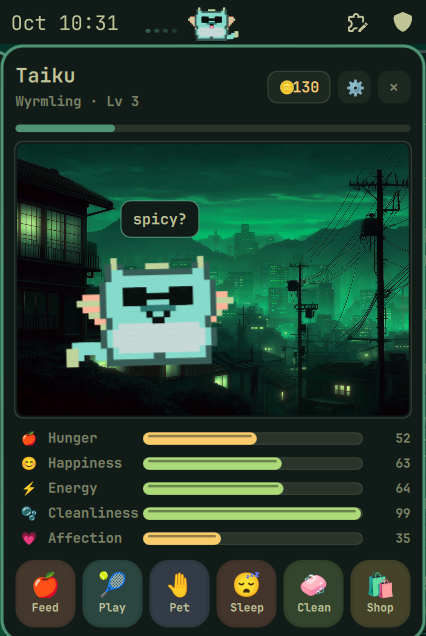
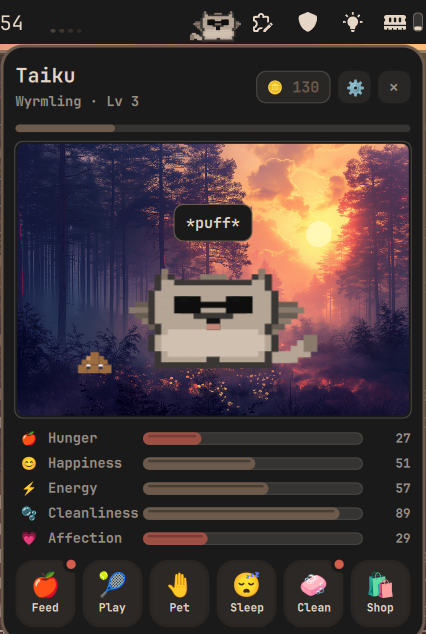
Update 0.4.1

diff --git a/Sprites.js b/Sprites.js
@@ -203,6 +203,7 @@ var EYE = "#2b2433"
 var CUR = null
 function E() { return (CUR && CUR.e) || EYE }
 function HP() { return (CUR && CUR.hat) || HAT_PAL }
+function themed(k, fallback) { return (CUR && CUR[k]) || fallback }
 function GOLD() { return (CUR && CUR.gold) || "#ffd966" }
 
 // ---------------------------------------------------------------- runs
@@ -280,7 +281,7 @@ function drawMouth(ctx, S, kind, mx, my, wide) {
       rect(ctx, S, mx + 2 + half - 1, my, 1, 1, c); break
     case "open":
       rect(ctx, S, mx - half + 1, my, 2 + (half - 1) * 2, 2, c)
-      rect(ctx, S, mx, my + 1, 2, 1, "#ff8fa8"); break
+      rect(ctx, S, mx, my + 1, 2, 1, themed("p", "#ff8fa8")); break
     case "chew":
       rect(ctx, S, mx, my, 2, 1, c); break
     case "sad":
@@ -292,7 +293,7 @@ function drawMouth(ctx, S, kind, mx, my, wide) {
     case "flat":
       rect(ctx, S, mx - half + 1, my, 2 + (half - 1) * 2, 1, c); break
     case "tongue":
-      rect(ctx, S, mx - 1, my, 4, 1, c); rect(ctx, S, mx + 1, my + 1, 2, 1, "#ff8fa8"); break
+      rect(ctx, S, mx - 1, my, 4, 1, c); rect(ctx, S, mx + 1, my + 1, 2, 1, themed("p", "#ff8fa8")); break
     case "zzz": case "none": break
   }
 }
@@ -302,13 +303,16 @@ function drawNose(ctx, S, face) {
   if (!n) return
   var w = n.w || 2
   var x = 10 - w / 2
-  rect(ctx, S, x, n.y, w, 1, n.c)
-  if (n.dots) { rect(ctx, S, x - 1, n.y, 1, 1, n.c); rect(ctx, S, x + w, n.y, 1, 1, n.c) }
+  // Pink noses take the palette's pink; the dragon's dots its outline colour.
+  var c = n.c === "#ff8fa8" ? themed("p", n.c) : n.dots ? themed("o", n.c) : n.c
+  rect(ctx, S, x, n.y, w, 1, c)
+  if (n.dots) { rect(ctx, S, x - 1, n.y, 1, 1, c); rect(ctx, S, x + w, n.y, 1, 1, c) }
 }
 
 function drawBeak(ctx, S, open) {
-  rect(ctx, S, 8, 8, 4, 1, "#ffb347"); rect(ctx, S, 9, 9, 2, 1, "#ff9a2e")
-  if (open) rect(ctx, S, 9, 10, 2, 1, "#ff9a2e")
+  var bk = themed("a", "#ffb347"), bd = themed("aw", "#ff9a2e")
+  rect(ctx, S, 8, 8, 4, 1, bk); rect(ctx, S, 9, 9, 2, 1, bd)
+  if (open) rect(ctx, S, 9, 10, 2, 1, bd)
 }
 
 function drawCheeks(ctx, S, face, amount) {
@@ -345,7 +349,7 @@ function drawTail(ctx, S, type, stage, phase, amp) {
         seg(ctx, S, 19 + i * 0.5 + Math.sin(phase) * amp * (i / 4) * 1.6, 14 - i * 1.1, 2, 2, P.d)
       break
     }
-    case "bunny": rect(ctx, S, 18.5, 14.5, 3, 3, "#ffffff"); rect(ctx, S, 18.5, 16, 3, 1, "#ece0e6"); break
+    case "bunny": rect(ctx, S, 18.5, 14.5, 3, 3, P.w); rect(ctx, S, 18.5, 16, 3, 1, P.l); break
     case "panda": rect(ctx, S, 19, 15, 2, 2, P.k); break
     case "fox": {
       var tails = stage >= 3 ? 3 : 1
@@ -356,7 +360,7 @@ function drawTail(ctx, S, type, stage, phase, amp) {
           var w = 3 + (i > 1 && i < 6 ? 1 : 0)
           var x = 18 + i * 0.9 + spread * i * 0.55 + Math.sin(phase + k * 0.9 - i * 0.45) * amp * f
           var y = 14 - i * 0.9 - Math.abs(spread) * i * 0.2
-          seg(ctx, S, x, y, w, 3, i >= 6 ? "#fff4e6" : P.b)
+          seg(ctx, S, x, y, w, 3, i >= 6 ? (P.w || "#fff4e6") : P.b)
           if (i === 0) seg(ctx, S, x, y + 3, w, 1, P.o)
         }
       }
@@ -383,7 +387,7 @@ function drawWings(ctx, S, type, stage, flap) {
       var w = Math.max(1, size - Math.abs(r - 1) + 1)
       var lift = flap * (size - r * 0.4) * 0.9
       var x = dir < 0 ? 1.5 - w : 18.5
-      seg(ctx, S, x - (dir < 0 ? lift * 0.3 : -lift * 0.3), 6 + r - lift * 0.6, w, 1, r % 2 ? P.a : "#ffb59a")
+      seg(ctx, S, x - (dir < 0 ? lift * 0.3 : -lift * 0.3), 6 + r - lift * 0.6, w, 1, r % 2 ? P.a : (P.aw || "#ffb59a"))
     }
   }
 }
@@ -406,10 +410,10 @@ function drawFlippers(ctx, S, type, flap) {
 function drawAdultMark(ctx, S, type, t) {
   switch (type) {
     case "cat": rect(ctx, S, 9, 5, 2, 1, GOLD()); break
-    case "dog": rect(ctx, S, 4, 14, 12, 2, "#ff6b6b"); rect(ctx, S, 3, 14, 1, 2, "#c94b4b"); rect(ctx, S, 16, 14, 1, 2, "#c94b4b"); break
+    case "dog": rect(ctx, S, 4, 14, 12, 2, themed("t", "#ff6b6b")); rect(ctx, S, 3, 14, 1, 2, themed("o", "#c94b4b")); rect(ctx, S, 16, 14, 1, 2, themed("o", "#c94b4b")); break
     case "bunny": rect(ctx, S, 9, 7, 2, 1, GOLD()); rect(ctx, S, 8, 8, 1, 1, GOLD()); break
     case "frog": rect(ctx, S, 7, 10, 6, 1, GOLD()); break
-    case "panda": rect(ctx, S, 15, 4, 1, 3, "#7fc97f"); rect(ctx, S, 16, 3, 2, 1, "#7fc97f"); break
+    case "panda": rect(ctx, S, 15, 4, 1, 3, themed("a", "#7fc97f")); rect(ctx, S, 16, 3, 2, 1, themed("a", "#7fc97f")); break
     case "fox": rect(ctx, S, 9, 6, 2, 1, GOLD()); break
     case "dragon": rect(ctx, S, 9, 5, 2, 1, GOLD()); break
     case "penguin": rect(ctx, S, 4, 8, 2, 2, GOLD()); rect(ctx, S, 14, 8, 2, 2, GOLD()); break

diff --git a/Palette.js b/Palette.js
@@ -1,0 +1,92 @@
+// Pet colours derived from a theme. Pure, so the shell (Theme.qml) and the
+// gallery script (tools/gallery.mjs) paint exactly the same pets.
+//
+// The look is calm: every pet is a theme hue pulled toward the background, with
+// one accent colour for details, so it sits in the UI instead of shouting over it.
+//
+// env: { bg, text, accent, urgent, hues: { name: "#rrggbb" } }, all "#rrggbb".
+
+function palHex(c) {
+  var s = "#"
+  for (var i = 0; i < 3; i++) {
+    var v = Math.max(0, Math.min(255, Math.round(c[i])))
+    s += (v < 16 ? "0" : "") + v.toString(16)
+  }
+  return s
+}
+function palRgb(h) {
+  return [parseInt(h.substr(1, 2), 16), parseInt(h.substr(3, 2), 16), parseInt(h.substr(5, 2), 16)]
+}
+function palMix(a, b, k) {
+  var x = palRgb(a), y = palRgb(b)
+  return palHex([x[0] * (1 - k) + y[0] * k, x[1] * (1 - k) + y[1] * k, x[2] * (1 - k) + y[2] * k])
+}
+
+var PAL_HUE = {
+  cat: "orange", dog: "brown", bunny: "foreground", frog: "green",
+  panda: "foreground", fox: "red", dragon: "cyan", penguin: "blue"
+}
+
+function palLum(h) { var c = palRgb(h); return (0.2126 * c[0] + 0.7152 * c[1] + 0.0722 * c[2]) / 255 }
+
+function petPalette(type, env) {
+  var BLACK = "#000000", WHITE = "#ffffff"
+  function hue(name, fallback) { return env.hues[name] || (fallback !== undefined ? fallback : env.accent) }
+  var bg = env.bg
+  var dark = palLum(bg) < 0.5
+  // Shading and outlines pull toward `ink`, light areas toward `paper`; both
+  // flip on a light theme so outlines stay visible and bellies stay pale.
+  var ink = dark ? bg : env.text
+  var paper = dark ? hue("foreground", env.text) : palMix(bg, WHITE, 0.6)
+  var bright = dark ? hue("bright_foreground", env.text) : palMix(bg, WHITE, 0.8)
+  var red = hue("red", env.urgent)
+  var mark = palMix(env.accent, paper, 0.25)
+
+  var base = hue(PAL_HUE[type], env.accent)
+  if (type === "dog" && !env.hues.brown) base = palMix(hue("orange"), BLACK, 0.25)
+  if (type === "fox") base = palMix(red, hue("orange", red), 0.5)
+
+  var b, d, o, l, k, a, aw
+  if (type === "bunny" || type === "panda") {
+    b = palMix(paper, bg, 0.15)
+    l = palMix(paper, bg, 0.05)
+    d = palMix(paper, ink, 0.4)
+    o = palMix(ink, BLACK, 0.5)
+    k = type === "panda" ? palMix(ink, paper, 0.16) : palMix(paper, ink, 0.45)
+    a = type === "panda" ? palMix(hue("green"), bg, 0.2) : palMix(b, red, 0.3)
+  } else if (type === "penguin") {
+    b = palMix(base, ink, 0.6)
+    d = palMix(b, ink, 0.4)
+    o = palMix(b, ink, 0.8)
+    k = b
+    l = palMix(paper, bg, 0.1)
+    a = palMix(hue("orange"), bg, 0.2)
+  } else {
+    // On a dark theme the body is the widgets' text colour, tinted by the pet's hue.
+    b = dark ? palMix(base, env.text, 0.6) : palMix(base, bg, 0.25)
+    d = palMix(b, ink, 0.4)
+    o = palMix(b, ink, 0.8)
+    l = palMix(b, paper, 0.55)
+    k = palMix(b, ink, 0.7)
+    a = (type === "frog" || type === "dragon") ? mark : d
+  }
+  aw = palMix(a, bg, 0.3)
+  var cheek = palRgb(palMix(b, red, 0.3))
+
+  return {
+    b: b, l: l, d: d, o: o, k: k, a: a, aw: aw,
+    p: palMix(b, red, 0.4),
+    w: palMix(bright, paper, 0.5),
+    e: palMix(ink, BLACK, 0.5),
+    m: palMix(ink, BLACK, 0.35),
+    t: palMix(red, bg, 0.35),
+    gold: palMix(mark, paper, 0.35),
+    cheek: Math.round(cheek[0]) + "," + Math.round(cheek[1]) + "," + Math.round(cheek[2]),
+    hat: {
+      o: palMix(ink, BLACK, 0.3), a: hue("magenta"), w: bright, y: hue("yellow"),
+      c: hue("cyan"), g: hue("green"), b: hue("blue"),
+      v: palMix(hue("blue"), BLACK, 0.45), k: palMix(ink, BLACK, 0.45),
+      r: red, p: palMix(hue("magenta"), bright, 0.4)
+    }
+  }
+}

diff --git a/Theme.qml b/Theme.qml
@@ -8,6 +8,7 @@ import QtQuick
 import Quickshell
 import Quickshell.Io
 import qs.Commons
+import "Palette.js" as Palette
 
 QtObject {
   id: t
@@ -57,44 +58,14 @@ QtObject {
   }
 
   function css(c) { return String(Qt.color(c)) }
+  function solid(c) { var q = Qt.color(c); return String(Qt.rgba(q.r, q.g, q.b, 1)) }
   function lum(c) { return 0.2126 * c.r + 0.7152 * c.g + 0.0722 * c.b }
 
-  // Which theme hue each pet wears.
-  readonly property var petHue: ({
-    cat: "orange", dog: "brown", bunny: "bright_foreground", frog: "green",
-    panda: "bright_foreground", fox: "red", dragon: "cyan", penguin: "magenta"
-  })
-
+  // The pets' colours come from Palette.js, shared with tools/gallery.mjs.
   function petPalette(type) {
-    var fgc = hue("bright_foreground", text)
-    var base = hue(petHue[type], accent)
-    if (type === "dog" && !hues["brown"]) base = mix(hue("orange", accent), "#000000", 0.25)
-    var black = Qt.color("#000000")
-    var dark = mix(bg, fgc, 0.1)
-    var p = {
-      b: css(base),
-      l: css(mix(base, fgc, 0.68)),
-      d: css(mix(base, black, 0.25)),
-      o: css(mix(base, black, 0.58)),
-      p: css(mix(hue("red", urgent), fgc, 0.38)),
-      a: css(mix(base, hue("yellow", accent), 0.5)),
-      w: css(fgc),
-      k: css(dark),
-      e: css(mix(bg, black, 0.5)),
-      m: css(mix(bg, black, 0.35)),
-      t: css(hue("red", urgent)),
-      gold: css(gold),
-      cheek: Math.round(hue("red", urgent).r * 255) + "," + Math.round(hue("red", urgent).g * 255) + "," + Math.round(hue("red", urgent).b * 255),
-      hat: {
-        o: css(mix(bg, black, 0.3)), a: css(hue("magenta", accent)), w: css(fgc), y: css(gold),
-        c: css(hue("cyan", accent)), g: css(hue("green", accent)), b: css(hue("blue", accent)),
-        v: css(mix(hue("blue", accent), black, 0.45)), k: css(mix(bg, black, 0.45)),
-        r: css(hue("red", urgent)), p: css(mix(hue("magenta", accent), fgc, 0.4))
-      }
-    }
-    if (type === "panda") { p.d = css(mix(fgc, bg, 0.3)); p.l = css(fgc); p.o = css(mix(bg, black, 0.5)) }
-    if (type === "penguin") { p.k = css(mix(base, black, 0.55)); p.d = css(mix(base, black, 0.7)); p.o = css(mix(base, black, 0.82)); p.a = css(hue("orange", accent)) }
-    return p
+    return Palette.petPalette(type, {
+      bg: solid(bg), text: solid(text), accent: solid(accent), urgent: solid(urgent), hues: hues
+    })
   }
 
   // Colours the room backgrounds draw with.

diff --git a/README.md b/README.md
@@ -11,6 +11,15 @@ switch themes.
     <img src="preview.png" alt="The pet on the bar and its care card" width="360">
 </div>
 
+The pets are painted from your theme, not from a fixed palette. On a dark theme each
+one wears your widgets' text colour, tinted with its own hue and a single accent; on
+a light theme it is a soft version of that hue. They sit quietly in the bar and follow
+every theme switch.
+
+<div align="center">
+    <img src="assets/gallery.png" alt="All eight pets in four Omarchy themes" width="720">
+</div>
+
 ## Install
 
 ```sh
@@ -106,10 +115,11 @@ from the bar until you `show` it again).
 node --test test/                 # rules, sprites, animation tables
 python3 tools/make-sfx.py         # regenerate assets/sfx
 node tools/preview.mjs out.svg    # contact sheet of the sprites
+node tools/gallery.mjs g.svg      # every pet in a few themes (README gallery)
 ```
 
 `Logic.js` holds the rules and is pure, `Sprites.js` the pixel art, `Anim.js` the
-behaviours, `Scenes.js` the fallback backdrops, `Theme.qml` the colours.
+behaviours, `Scenes.js` the fallback backdrops, `Palette.js` turns a theme into pet colours, `Theme.qml` the rest of the colours.
 
 ## License
 
